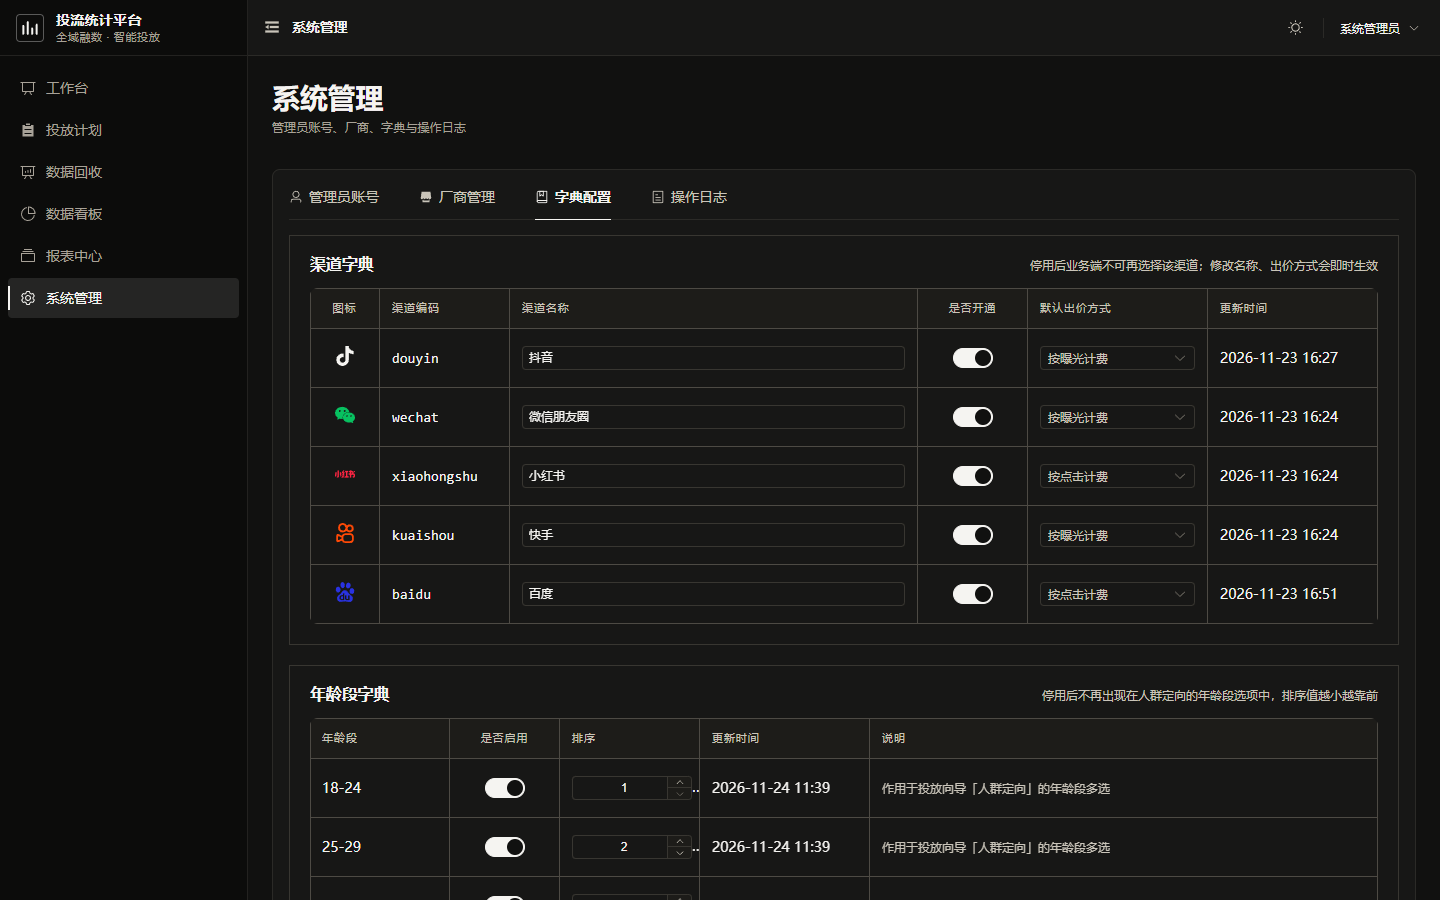
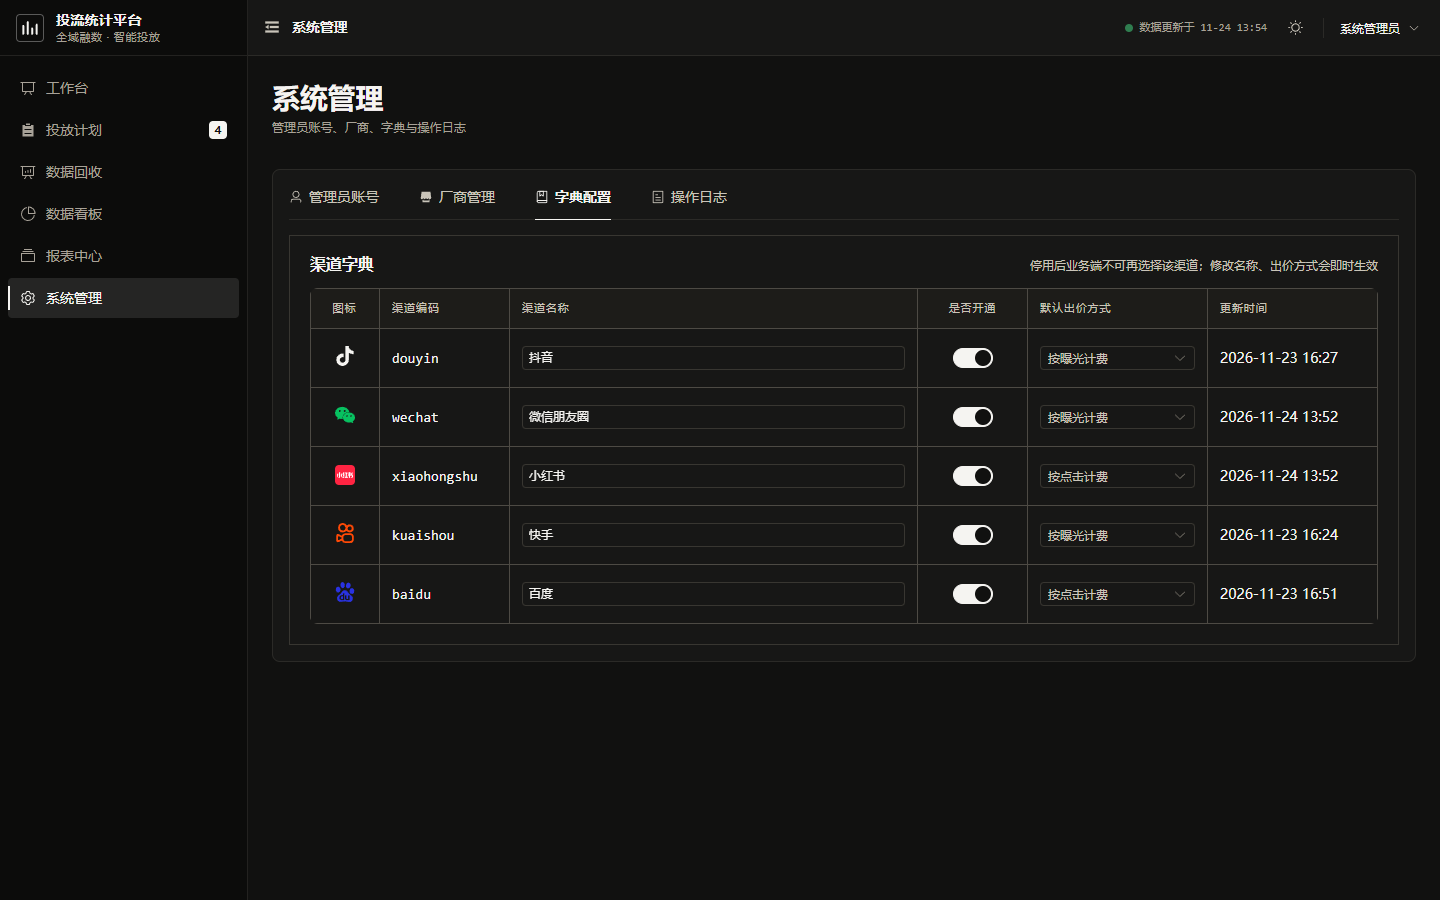
删除字典无用接口配置

diff --git a/src/views/admin/tabs/DictTab.vue b/src/views/admin/tabs/DictTab.vue
@@ -1,10 +1,9 @@
 <script setup lang="ts">
 import { onMounted, ref, watch } from 'vue';
 import { ElMessage } from 'element-plus';
-import type { AgeDict, ChannelDict, MetricDict } from '@/admin/types';
-import { listAges, listChannels, listMetrics, updateAge, updateChannel, updateMetric } from '@/admin/system';
+import type { ChannelDict } from '@/admin/types';
+import { listChannels, updateChannel } from '@/admin/system';
 import { BID_MODE_OPTIONS } from '@/admin/domain';
-import { IS_BACKEND_MODE } from '@/admin/config';
 import { formatDateTime } from '@/admin/format';
 import { errorMessage } from '@/admin/error';
 import ChannelIcon from '@/components/ChannelIcon.vue';
@@ -15,20 +14,11 @@ const props = withDefaults(defineProps<{ refreshToken?: number }>(), { refreshTo
 const loading = ref(false);
 const savingKey = ref('');
 const channels = ref<ChannelDict[]>([]);
-const ages = ref<AgeDict[]>([]);
-const metrics = ref<MetricDict[]>([]);
 
 async function loadAll(): Promise<void> {
   loading.value = true;
   try {
-    const [channelList, ageList, metricList] = await Promise.all([
-      listChannels(),
-      listAges(),
-      listMetrics()
-    ]);
-    channels.value = channelList;
-    ages.value = ageList;
-    metrics.value = metricList;
+    channels.value = await listChannels();
   } catch (error) {
     ElMessage.error(errorMessage(error, '字典配置加载失败'));
   } finally {
@@ -74,92 +64,6 @@ function handleChannelBidMode(row: ChannelDict): void {
   void patchChannel(row, { bidMode: row.bidMode }, '默认出价方式已更新');
 }
 
-/* ============================ 年龄段字典 ============================ */
-
-async function patchAge(row: AgeDict, patch: Partial<AgeDict>, successText: string): Promise<void> {
-  if (IS_BACKEND_MODE) {
-    ElMessage.warning('后端未提供年龄段/指标口径写接口，当前为只读');
-    await loadAll();
-    return;
-  }
-  savingKey.value = `age:${row.value}`;
-  try {
-    const updated = await updateAge(row.value, patch);
-    ages.value = ages.value
-      .map((item) => (item.value === updated.value ? updated : item))
-      .sort((a, b) => a.sort - b.sort);
-    ElMessage.success(successText);
-  } catch (error) {
-    ElMessage.error(errorMessage(error, '年龄段配置保存失败'));
-    await loadAll();
-  } finally {
-    savingKey.value = '';
-  }
-}
-
-function handleAgeEnabled(row: AgeDict): void {
-  void patchAge(row, { enabled: row.enabled }, row.enabled ? '年龄段已启用' : '年龄段已停用');
-}
-
-function handleAgeSort(row: AgeDict): void {
-  void patchAge(row, { sort: row.sort }, '年龄段排序已更新');
-}
-
-/* ============================ 指标口径 ============================ */
-
-function saveMetric(row: MetricDict): void {
-  if (IS_BACKEND_MODE) {
-    ElMessage.warning('后端未提供年龄段/指标口径写接口，当前为只读');
-    void loadAll();
-    return;
-  }
-  const name = row.name.trim();
-  const formula = row.formula.trim();
-  if (!name) {
-    ElMessage.warning('指标名称不能为空');
-    void loadAll();
-    return;
-  }
-  if (!formula) {
-    ElMessage.warning('计算公式不能为空');
-    void loadAll();
-    return;
-  }
-  savingKey.value = `metric:${row.key}`;
-  void (async () => {
-    try {
-      const updated = await updateMetric(row.key, {
-        name,
-        formula,
-        decimals: row.decimals,
-        visible: row.visible
-      });
-      metrics.value = metrics.value.map((item) => (item.key === updated.key ? updated : item));
-      ElMessage.success(`指标「${updated.name}」已保存`);
-    } catch (error) {
-      ElMessage.error(errorMessage(error, '指标口径保存失败'));
-      await loadAll();
-    } finally {
-      savingKey.value = '';
-    }
-  })();
-}
-
-function handleMetricVisible(row: MetricDict): void {
-  savingKey.value = `metric:${row.key}`;
-  void (async () => {
-    try {
-      const updated = await updateMetric(row.key, { visible: row.visible });
-      metrics.value = metrics.value.map((item) => (item.key === updated.key ? updated : item));
-      ElMessage.success(updated.visible ? '该指标将在看板展示' : '该指标已从看板隐藏');
-    } catch (error) {
-      ElMessage.error(errorMessage(error, '看板展示配置保存失败'));
-      await loadAll();
-    } finally {
-      savingKey.value = '';
-    }
-  })();
-}
 
 watch(
   () => props.refreshToken,
@@ -236,97 +140,6 @@ onMounted(() => {
       </el-table>
     </section>
 
-    <!-- 年龄段字典 -->
-    <section class="section">
-      <div class="section__head">
-        <h3 class="card-title">年龄段字典</h3>
-        <span class="section__hint">停用后不再出现在人群定向的年龄段选项中，排序值越小越靠前</span>
-      </div>
-      <el-table :data="ages" border size="small">
-        <el-table-column prop="value" label="年龄段" width="140" />
-        <el-table-column label="是否启用" width="110" align="center">
-          <template #default="{ row }">
-            <el-switch
-              v-model="row.enabled"
-              :loading="savingKey === `age:${row.value}`"
-              @change="handleAgeEnabled(row)"
-            />
-          </template>
-        </el-table-column>
-        <el-table-column label="排序" width="140">
-          <template #default="{ row }">
-            <el-input-number
-              v-model="row.sort"
-              :min="1"
-              :max="99"
-              :precision="0"
-              size="small"
-              controls-position="right"
-              :disabled="savingKey === `age:${row.value}`"
-              @change="handleAgeSort(row)"
-            />
-          </template>
-        </el-table-column>
-        <el-table-column label="更新时间" width="170">
-          <template #default="{ row }">{{ formatDateTime(row.updatedAt) }}</template>
-        </el-table-column>
-        <el-table-column label="说明" min-width="220">
-          <template #default>
-            <span class="dict-note">作用于投放向导「人群定向」的年龄段多选</span>
-          </template>
-        </el-table-column>
-      </el-table>
-    </section>
-
-    <!-- 指标口径 -->
-    <section class="section">
-      <div class="section__head">
-        <h3 class="card-title">指标口径</h3>
-        <span class="section__hint">统一指标名称、计算公式与小数位；关闭「看板展示」后该指标不再出现在看板</span>
-      </div>
-      <el-table :data="metrics" border size="small">
-        <el-table-column label="指标名称" width="170">
-          <template #default="{ row }">
-            <el-input v-model="row.name" size="small" maxlength="12" @change="saveMetric(row)" />
-          </template>
-        </el-table-column>
-        <el-table-column label="指标 Key" width="150">
-          <template #default="{ row }">
-            <span class="mono">{{ row.key }}</span>
-          </template>
-        </el-table-column>
-        <el-table-column label="计算公式" min-width="240">
-          <template #default="{ row }">
-            <el-input v-model="row.formula" size="small" maxlength="60" @change="saveMetric(row)" />
-          </template>
-        </el-table-column>
-        <el-table-column label="小数位" width="110">
-          <template #default="{ row }">
-            <el-input-number
-              v-model="row.decimals"
-              :min="0"
-              :max="4"
-              :precision="0"
-              size="small"
-              controls-position="right"
-              @change="saveMetric(row)"
-            />
-          </template>
-        </el-table-column>
-        <el-table-column label="看板展示" width="110" align="center">
-          <template #default="{ row }">
-            <el-switch
-              v-model="row.visible"
-              :loading="savingKey === `metric:${row.key}`"
-              @change="handleMetricVisible(row)"
-            />
-          </template>
-        </el-table-column>
-        <el-table-column label="更新时间" width="170">
-          <template #default="{ row }">{{ formatDateTime(row.updatedAt) }}</template>
-        </el-table-column>
-      </el-table>
-    </section>
   </div>
 </template>
 
@@ -335,10 +148,6 @@ onMounted(() => {
   display: flex;
   flex-direction: column;
   gap: 20px;
-}
-
-.dict-alert {
-  margin-bottom: 4px;
 }
 
 .section {
@@ -368,8 +177,4 @@ onMounted(() => {
 }
 
 
-.dict-note {
-  font-size: 12px;
-  color: var(--color-text-secondary);
-}
 </style>

diff --git a/src/admin/constants.ts b/src/admin/constants.ts
@@ -8,8 +8,7 @@ export const PLATFORM_OPTIONS: { value: PlatformCode; label: string }[] = [
   { value: 'wechat', label: '微信' },
   { value: 'xiaohongshu', label: '小红书' },
   { value: 'kuaishou', label: '快手' },
-  { value: 'baidu', label: '百度' },
-  { value: 'other', label: '其他' }
+  { value: 'baidu', label: '百度' }
 ];
 
 export const CURVE_OPTIONS: { value: CurveType; label: string; hint: string }[] = [

diff --git a/docs/10-管理端合并说明.md b/docs/10-管理端合并说明.md
@@ -10,7 +10,7 @@
 |---|---|---|
 | 管理员账号 | 查询、编辑名称、启停、重置密码；账号由后端统一发放，不提供新增 | `/users`、`PATCH /users/{id}`、`/users/{id}/reset-password` |
 | 厂商管理 | 查询、新增、编辑、启停、删除（被计划引用时仅能停用） | `/vendors` CRUD |
-| 字典配置 | 渠道字典可编辑（名称、启停、默认出价）；年龄段与指标口径只读 | `/channels`（GET/PUT）、`/dicts` |
+| 字典配置 | 渠道字典可编辑（名称、启停、默认出价）；年龄段与指标口径已移除 | `/channels`（GET/PUT） |
 | 操作日志 | 关键词/对象类型/操作人/日期检索、展开详情、CSV 导出 | `/logs`、`/users` |
 
 ## 2 登录与权限
@@ -50,7 +50,6 @@ src/views/admin/
 | 项 | 说明 |
 |---|---|
 | 渠道表前置依赖 | 后端计划创建校验「投放渠道存在且启用」；后端重置后需先播种渠道（`scripts/seed-real.py` 已包含） |
-| 年龄段 / 指标口径 | 后端无写接口，管理页只读并提示 |
 | 常用方案 | 存浏览器 localStorage，换浏览器不同步 |
 | 调节记录 | 由 `/logs` 中 `mock_*` 动作反推，非独立表 |
 | PDF 报表 | 后端 pdfkit 缺字体，仍不可用（与用户端一致） |
